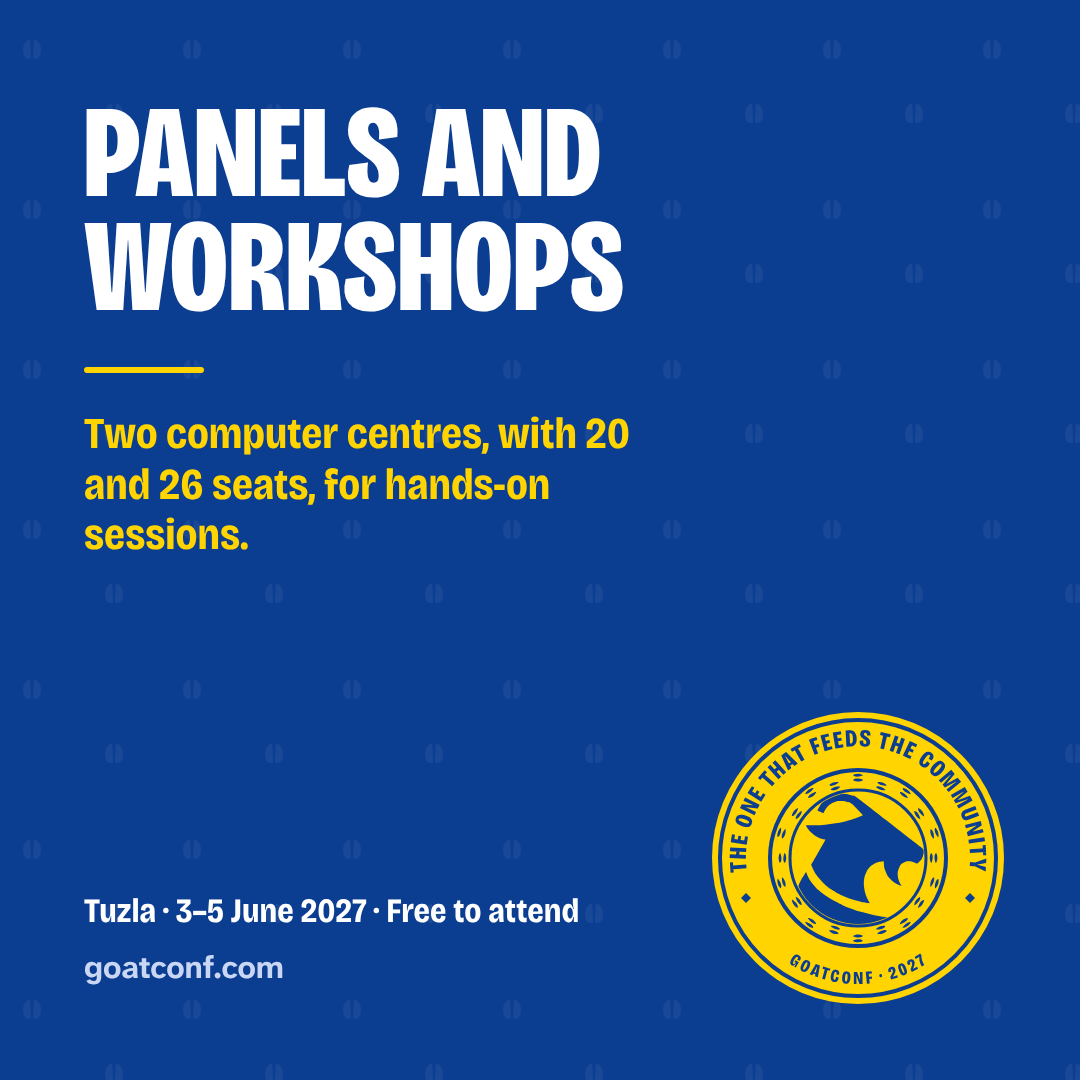
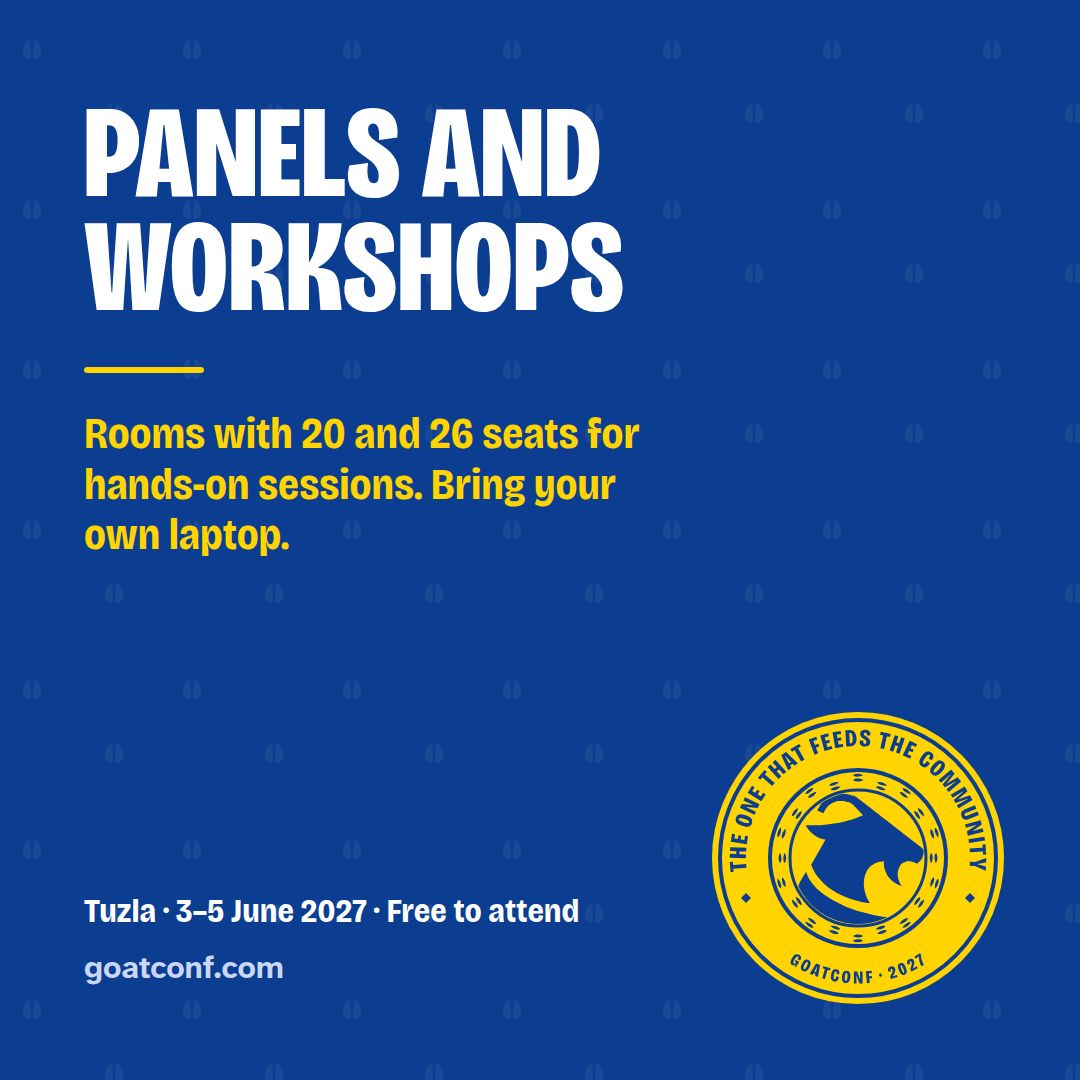
site: workshops run on the laptops people bring, not IPI's computers

diff --git a/files/site/program.html b/files/site/program.html
@@ -52,7 +52,7 @@
   <div class="page-grid">
     <div class="copy">
       <p>Thursday 3rd and Friday 4th June 2027 are the core days, at IPI Academy, Kulina bana 2, Tuzla. Each day runs on one timetable for every room, so you can change rooms at every break.</p>
-      <p>Every slot is one hour: a talk with time for questions, a panel, a workshop or something else. Two half-hour sessions can share a slot, and a workshop in a computer centre can run longer. After each slot comes a full hour off, in the cafés on Freedom Square under five minutes away. That is when you talk to the person you just heard.</p>
+      <p>Every slot is one hour: a talk with time for questions, a panel, a workshop or something else. Two half-hour sessions can share a slot, and a workshop in a computer centre can run longer. At a workshop, everyone works on the laptop they bring. After each slot comes a full hour off, in the cafés on Freedom Square under five minutes away. That is when you talk to the person you just heard.</p>
       <p>Thursday runs from 10:00 to 17:00. Friday runs from 09:30 to 16:30.</p>
       <p>GoatConf aims to record the sessions in the two big halls, the main hall and the first-floor hall. This is not promised yet, as it depends on the available budget. You may also bring a camera or a podcast and record, and podcasts are welcome in some of the rooms.</p>
       <p>The slots fill as proposals come in and are accepted. Days, times and rooms are final only once the program is finalised, closer to the event. Until then a session's place on this page can still move. <a href="talk.html">Propose a session</a>, or <a href="register.html">register for free</a> to come and listen.</p>

diff --git a/files/site/talk.html b/files/site/talk.html
@@ -52,7 +52,7 @@
 <ul>
 <li><strong>A talk,</strong> with time for questions.</li>
 <li><strong>A panel:</strong> a few people on one question, with the room joining in.</li>
-<li><strong>A workshop:</strong> people learn by doing, on their own laptops or in one of the two computer centres, with 20 and 26 seats. A workshop in a computer centre that needs more than an hour can run longer: say how long in your proposal, and we work out the hours with you.</li>
+<li><strong>A workshop:</strong> people learn by doing, on the laptops they bring. IPI Academy's computers are not for GoatConf's use, so you and everyone taking part bring your own. The two computer centres, with 20 and 26 seats, suit workshops, and one there that needs more than an hour can run longer: say how long in your proposal, and we work out the hours with you.</li>
 <li><strong>Something else</strong> that fits an hour, shown on the program under its own name, for example:
 <ul>
 <li>live coding or a live demo: build or show something on stage, with questions</li>

diff --git a/files/tools/program.py b/files/tools/program.py
@@ -362,7 +362,7 @@ def page() -> str:
   <div class="page-grid">
     <div class="copy">
       <p>Thursday 3rd and Friday 4th June 2027 are the core days, at IPI Academy, Kulina bana 2, Tuzla. Each day runs on one timetable for every room, so you can change rooms at every break.</p>
-      <p>Every slot is one hour: a talk with time for questions, a panel, a workshop or something else. Two half-hour sessions can share a slot, and a workshop in a computer centre can run longer. After each slot comes a full hour off, in the cafés on Freedom Square under five minutes away. That is when you talk to the person you just heard.</p>
+      <p>Every slot is one hour: a talk with time for questions, a panel, a workshop or something else. Two half-hour sessions can share a slot, and a workshop in a computer centre can run longer. At a workshop, everyone works on the laptop they bring. After each slot comes a full hour off, in the cafés on Freedom Square under five minutes away. That is when you talk to the person you just heard.</p>
       <p>{' '.join(f'{CORE_DAYS[d].split()[0]} runs from {day_hours(d)}.' for d in CORE_DAYS)}</p>
       <p>GoatConf aims to record the sessions in the two big halls, the main hall and the first-floor hall. This is not promised yet, as it depends on the available budget. You may also bring a camera or a podcast and record, and podcasts are welcome in some of the rooms.</p>
       <p>The slots fill as proposals come in and are accepted. Days, times and rooms are final only once the program is finalised, closer to the event. Until then a session's place on this page can still move. <a href="talk.html">Propose a session</a>, or <a href="register.html">register for free</a> to come and listen.</p>

diff --git a/files/tools/shareables.py b/files/tools/shareables.py
@@ -127,7 +127,7 @@ POSTS = {
     "whos-organising": ("Who's<br>organising", "The organiser of EuRuKo 2024 and RubyConf Austria."),
     "not-only-engineers": ("Not only<br>engineers", "AI/ML, data, UX/UI, product, research, business, leadership: for people who build and sell software."),
     "support-goatconf": ("Support<br>GoatConf", "One level, 500 euro, online only. Nothing at the venue."),
-    "panels-and-workshops": ("Panels and<br>workshops", "Two computer centres, with 20 and 26 seats, for hands-on sessions."),
+    "panels-and-workshops": ("Panels and<br>workshops", "Rooms with 20 and 26 seats for hands-on sessions. Bring your own laptop."),
     "with-or-without-meat": ("With or<br>without<br>meat", "Ask for posno: made without meat."),
     "access": ("Coming with<br>a disability?", "Step-free main hall and first floor. Tell us what you need."),
     "what-we-wont-do": ("What we<br>won't do", "No paid talks, no attendee list for sale, no supporters at the venue."),

diff --git a/files/wiki/index.md b/files/wiki/index.md
@@ -18,7 +18,7 @@ what is proposed is on the [pitches hub](org/pitches/index.md).
 ## What changed
 
 <!-- home-section: filled; maintained-by: /shape; updated: 2026-10-19 -->
-- **2026-10-19**: **Longer workshops in the computer centres.** A workshop in one of the two computer centres may run longer than an hour if it needs it: the speaker says how long in the proposal and the hours are worked out with them. The talk page and the program say so; how the program shows such a workshop is not decided yet (source: sources/conversations/2026-10-19--org--longer-workshops-in-the-computer-centres.md).
+- **2026-10-19**: **Longer workshops, on the laptops people bring.** A workshop in one of the two computer centres may run longer than an hour if it needs it: the speaker says how long in the proposal and the hours are worked out with them. IPI Academy's computers are not GoatConf's to use: everyone at a workshop works on the device they bring. The talk page, the program, the "Panels and workshops" card and its drafted post say so; how the program shows such a workshop is not decided yet (source: sources/conversations/2026-10-19--org--longer-workshops-in-the-computer-centres.md).
 - **2026-10-19**: **Second areas for two talks.** Dejan Menges's talk now shows Engineering and Data, and Christoph Lipautz's Engineering and AI/ML ([Dejan Menges](org/speakers/dejan-menges.md), [Christoph Lipautz](org/speakers/christoph-lipautz.md); source: sources/conversations/2026-10-19--org--second-areas-for-dejan-and-christoph.md).
 - **2026-10-19**: **Areas, named formats, and sessions or events.** The proposal form's "Discipline" question is now "Area", checkboxes asking what the session is about, any number of them, and "Who is it for?" also asks for the level; records may list several areas, each shown as a tag, and `program.json` lists them as `areas`. A session whose format is something else can show under its own name, such as Live coding. The talk page and the add page say which to use: a session takes an hour slot at IPI on Thursday or Friday, an event is run by its host on any day from 2 to 6 June. Longer workshops, a lightning-talk hour and finding sessions by area wait for their own decisions (source: sources/conversations/2026-10-19--org--area-and-format-names.md).
 - **2026-10-19**: **Eight areas.** Sessions now take one of eight areas, borrowed in part from Compass AI Tech Summit: Engineering, AI/ML, Data, UX/UI, Product, Research, Business of software and Leadership. The talk page lists them with a line each; the home page, the "Not only engineers" card, the record templates and the two drafted posts about the call follow. The areas should later group into a few program tracks, at most IPI Academy plus two more single-track venues: the organiser may explore Tuzla Public Theatre and the Croatian Cultural Centre "Sveti Franjo", neither secured; no grouping is decided (source: sources/conversations/2026-10-19--org--more-areas.md).

diff --git a/files/wiki/org/outreach/drumbeat-2027-jan-mar.md b/files/wiki/org/outreach/drumbeat-2027-jan-mar.md
@@ -7,6 +7,7 @@ confidence: medium
 affects:
   - org
 sources:
+  - sources/conversations/2026-10-19--org--longer-workshops-in-the-computer-centres.md
   - sources/conversations/2026-10-19--org--more-areas.md
   - sources/conversations/2026-10-19--org--business-and-people-sessions.md
   - sources/conversations/2026-10-18--org--social-plan-to-june.md
@@ -280,15 +281,15 @@ The posts in the order they go out. The calendar, the rules and what to do when 
 
   > A session at GoatConf doesn't have to be a talk.
   >
-  > Run a panel: a few people on one question, with the room joining in. Run a workshop: people learn by doing, on their own laptops or in one of IPI Academy's two computer centres, with 20 and 26 seats. Or bring live coding, a hands-on lab, a fireside chat or a debate.
+  > Run a panel: a few people on one question, with the room joining in. Run a workshop: people learn by doing, on the laptops they bring, in one of IPI Academy's two computer centres, with 20 and 26 seats, for longer than an hour if it needs it. Or bring live coding, a hands-on lab, a fireside chat or a debate.
   >
   > Every slot is one hour, on Thursday 3 or Friday 4 June. Propose yours: goatconf.com/talk
 
-- **Short** (183 characters):
+- **Short** (185 characters):
 
-  > A GoatConf session doesn't have to be a talk: run a panel, or a workshop in one of two computer centres (20 and 26 seats), or live coding, a lab, a debate. One hour. goatconf.com/talk
+  > A GoatConf session doesn't have to be a talk: run a panel, a workshop where everyone brings a laptop, live coding, a lab or a debate. An hour, or longer for workshops. goatconf.com/talk
 
-  Sources: sources/conversations/2026-10-18--org--run-a-session.md, sources/conversations/2026-10-12--org--all-available-rooms.md.
+  Sources: sources/conversations/2026-10-18--org--run-a-session.md, sources/conversations/2026-10-12--org--all-available-rooms.md, sources/conversations/2026-10-19--org--longer-workshops-in-the-computer-centres.md.
 
 ### Tue 30 Mar 2027, week 25: Where to stay
 

diff --git a/files/wiki/org/ipi-academy.md b/files/wiki/org/ipi-academy.md
@@ -5,6 +5,7 @@ status: living
 updated: 2026-10-18
 confidence: medium
 sources:
+  - sources/conversations/2026-10-19--org--longer-workshops-in-the-computer-centres.md
   - sources/conversations/2026-10-14--org--ipi-academy-logo.md
   - sources/web/venue/ipi-akademija-logo-2026-10-14.md
   - sources/conversations/2026-10-14--org--decisions-one-by-one.md
@@ -156,6 +157,7 @@ Arithmetic from the table above, not a cap on attendance:
 - **Talk tracks at once:** the three largest rooms, 150, 100 and 34 seats, or
   254 seats if the hall holds 120. That matches the two to three talk tracks
   in the June message.
+- **Its computers are not GoatConf's to use:** at a workshop, the speaker and everyone taking part work on the devices they bring; a workshop in a computer centre may run longer than an hour if it needs it (source: sources/conversations/2026-10-19--org--longer-workshops-in-the-computer-centres.md).
 - **Workshop rooms** if those three are talk tracks: computer centre 1 and 2,
   the top-floor room and the former student club, 13 to 26 seats each. Four
   parallel workshops fit in those four rooms. Five or six need the 34-seat

diff --git a/files/sources/conversations/2026-10-19--org--longer-workshops-in-the-computer-centres.md b/files/sources/conversations/2026-10-19--org--longer-workshops-in-the-computer-centres.md
@@ -1,5 +1,5 @@
 ---
-title: "Workshops in the computer centres can run longer than an hour"
+title: "Workshops in the computer centres can run longer than an hour, on the devices people bring"
 date: 2026-10-19
 kind: conversation
 ---
@@ -14,3 +14,11 @@ So a workshop in one of IPI Academy's two computer centres (20 and 26
 seats) may run over more than one hour if its speaker needs it; the
 speaker says how long in the proposal and the hours are worked out with
 them. How the program shows such a workshop is not decided yet.
+
+While the change was being made, the organiser added, verbatim:
+
+> We shouldn't assume we can use IPI's computers for anything. Only their own devices which they bring with themselves
+
+So IPI Academy's computers are not for GoatConf's use: at a workshop, the
+speaker and everyone taking part work on the devices they bring. The
+computer centres are rooms with 20 and 26 seats, nothing more.
